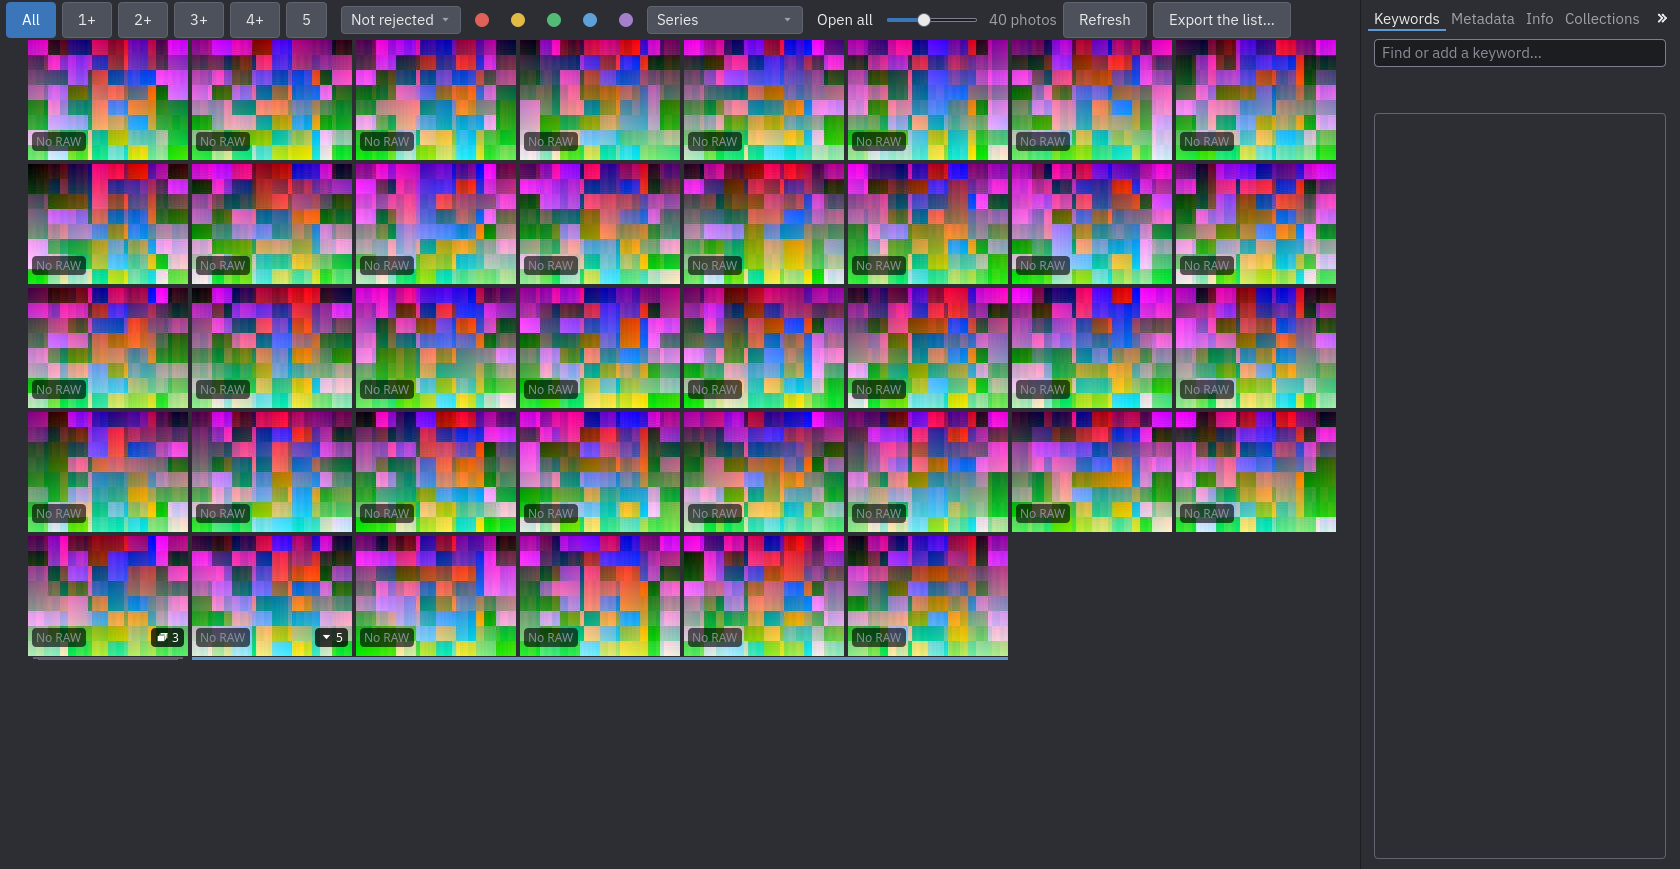
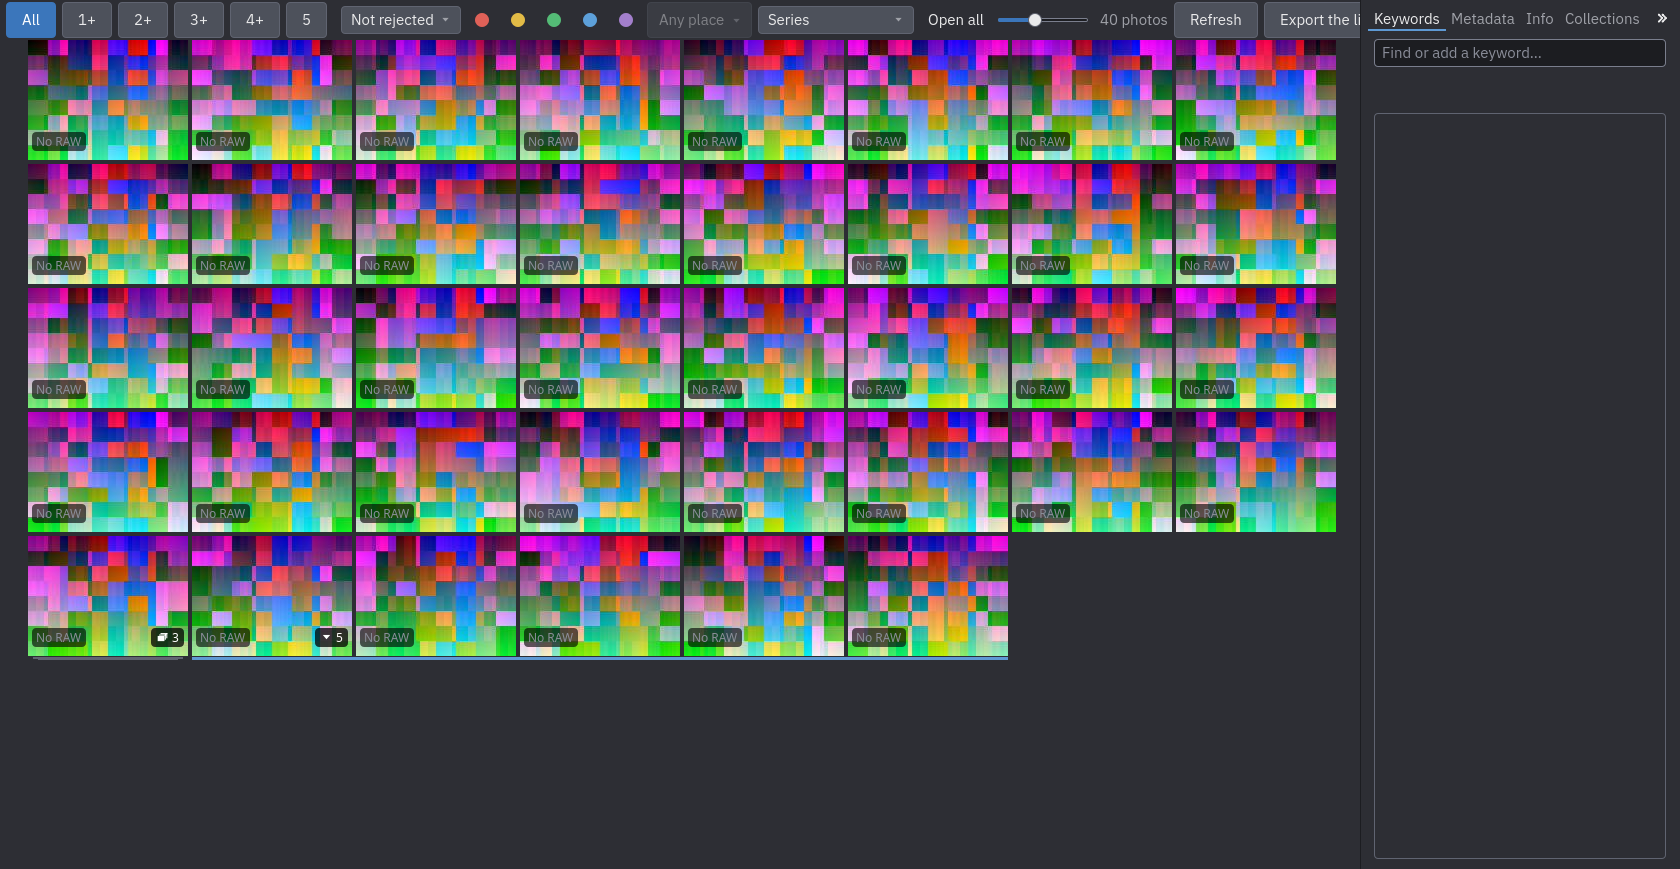
Manual: the Any place menu of the filter bar, and the pictures of the grid with it (D-151)
The menu is in the bar now that the grid answers for the engine: the browsing page describes it (the tree, what a click
does, the counts of the other filters, when it is greyed out, the photos with no country), the place names section points
to it, and the five pictures of the grid are drawn again with the button in the bar.

diff --git a/crates/ui/src/models.rs b/crates/ui/src/models.rs
@@ -1307,7 +1307,8 @@ impl qobject::PhotoGrid {
 
     pub fn set_place_filter_text(mut self: Pin<&mut Self>, text: &QString) {
         // What the engine reads back is what is kept (an unreadable text, or one that constrains nothing, lifts it).
-        let kept = PlaceFilter::from_json(&text.to_string()).map_or_else(String::new, |p| p.to_json());
+        let kept =
+            PlaceFilter::from_json(&text.to_string()).map_or_else(String::new, |p| p.to_json());
         if kept != self.place_filter.to_string() {
             self.as_mut().rust_mut().place_filter = QString::from(kept.as_str());
             self.as_mut().place_filter_changed();

diff --git a/docs/manual/03-browsing.md b/docs/manual/03-browsing.md
@@ -55,6 +55,14 @@ they list.
 - **The five coloured dots**: only photos with that colour label; click the same dot again to list all.
 - **Series** (appears once the catalogue has series): all, in a series, unresolved series, resolved series; and
   **Open all / Close all** for every series.
+- **Any place**: a menu of the places the photos in view are in, as a tree **Country ▸ Region ▸ City** with the number
+  of photos at each. Click a place to list only the photos from there ("everything from Quebec": a country is all that
+  is in it, a region all its cities); the button then shows its name, and **Any place** at the top of the menu lifts the
+  filter. The small arrow before a country or a region opens it without choosing it, and Up, Down, Right, Left,
+  Return and Escape work in the open menu. The counts are those of the photos the *other* filters list, so choosing
+  Québec still shows Ontario with its count. The button is greyed out while no photo in view has a country: places
+  come from [Find place names](06-keywords.md), or from what you typed in the Metadata tab. A photo with a city or a
+  region but no country is not in the menu.
 - **Keyword**: choose *Show the photos with this keyword* in the keyword panel's menu; a chip *Keyword: Peru ×*
   appears, and its × removes the filter.
 

diff --git a/docs/manual/06-keywords.md b/docs/manual/06-keywords.md
@@ -78,7 +78,8 @@ does not carry (most photos have no GPS position, for instance) is left off the 
 **Tools ▸ Find place names…** (`Ctrl+Shift+L`) fills in the **City**, **Region**, **Country** and **Country code**
 fields of the Metadata tab from where a photo was taken. It uses the photo's position (the one in the file, or the
 one you corrected) and a file of places that comes with Auroraw, so nothing is sent anywhere and it works without the
-internet.
+internet. Once photos have places, the **Any place** menu of the filter bar lists them by country, region and city
+([Browsing](03-browsing.md)).
 
 ![The Find place names dialog, with a photo selected](images/place-names.png)
 
